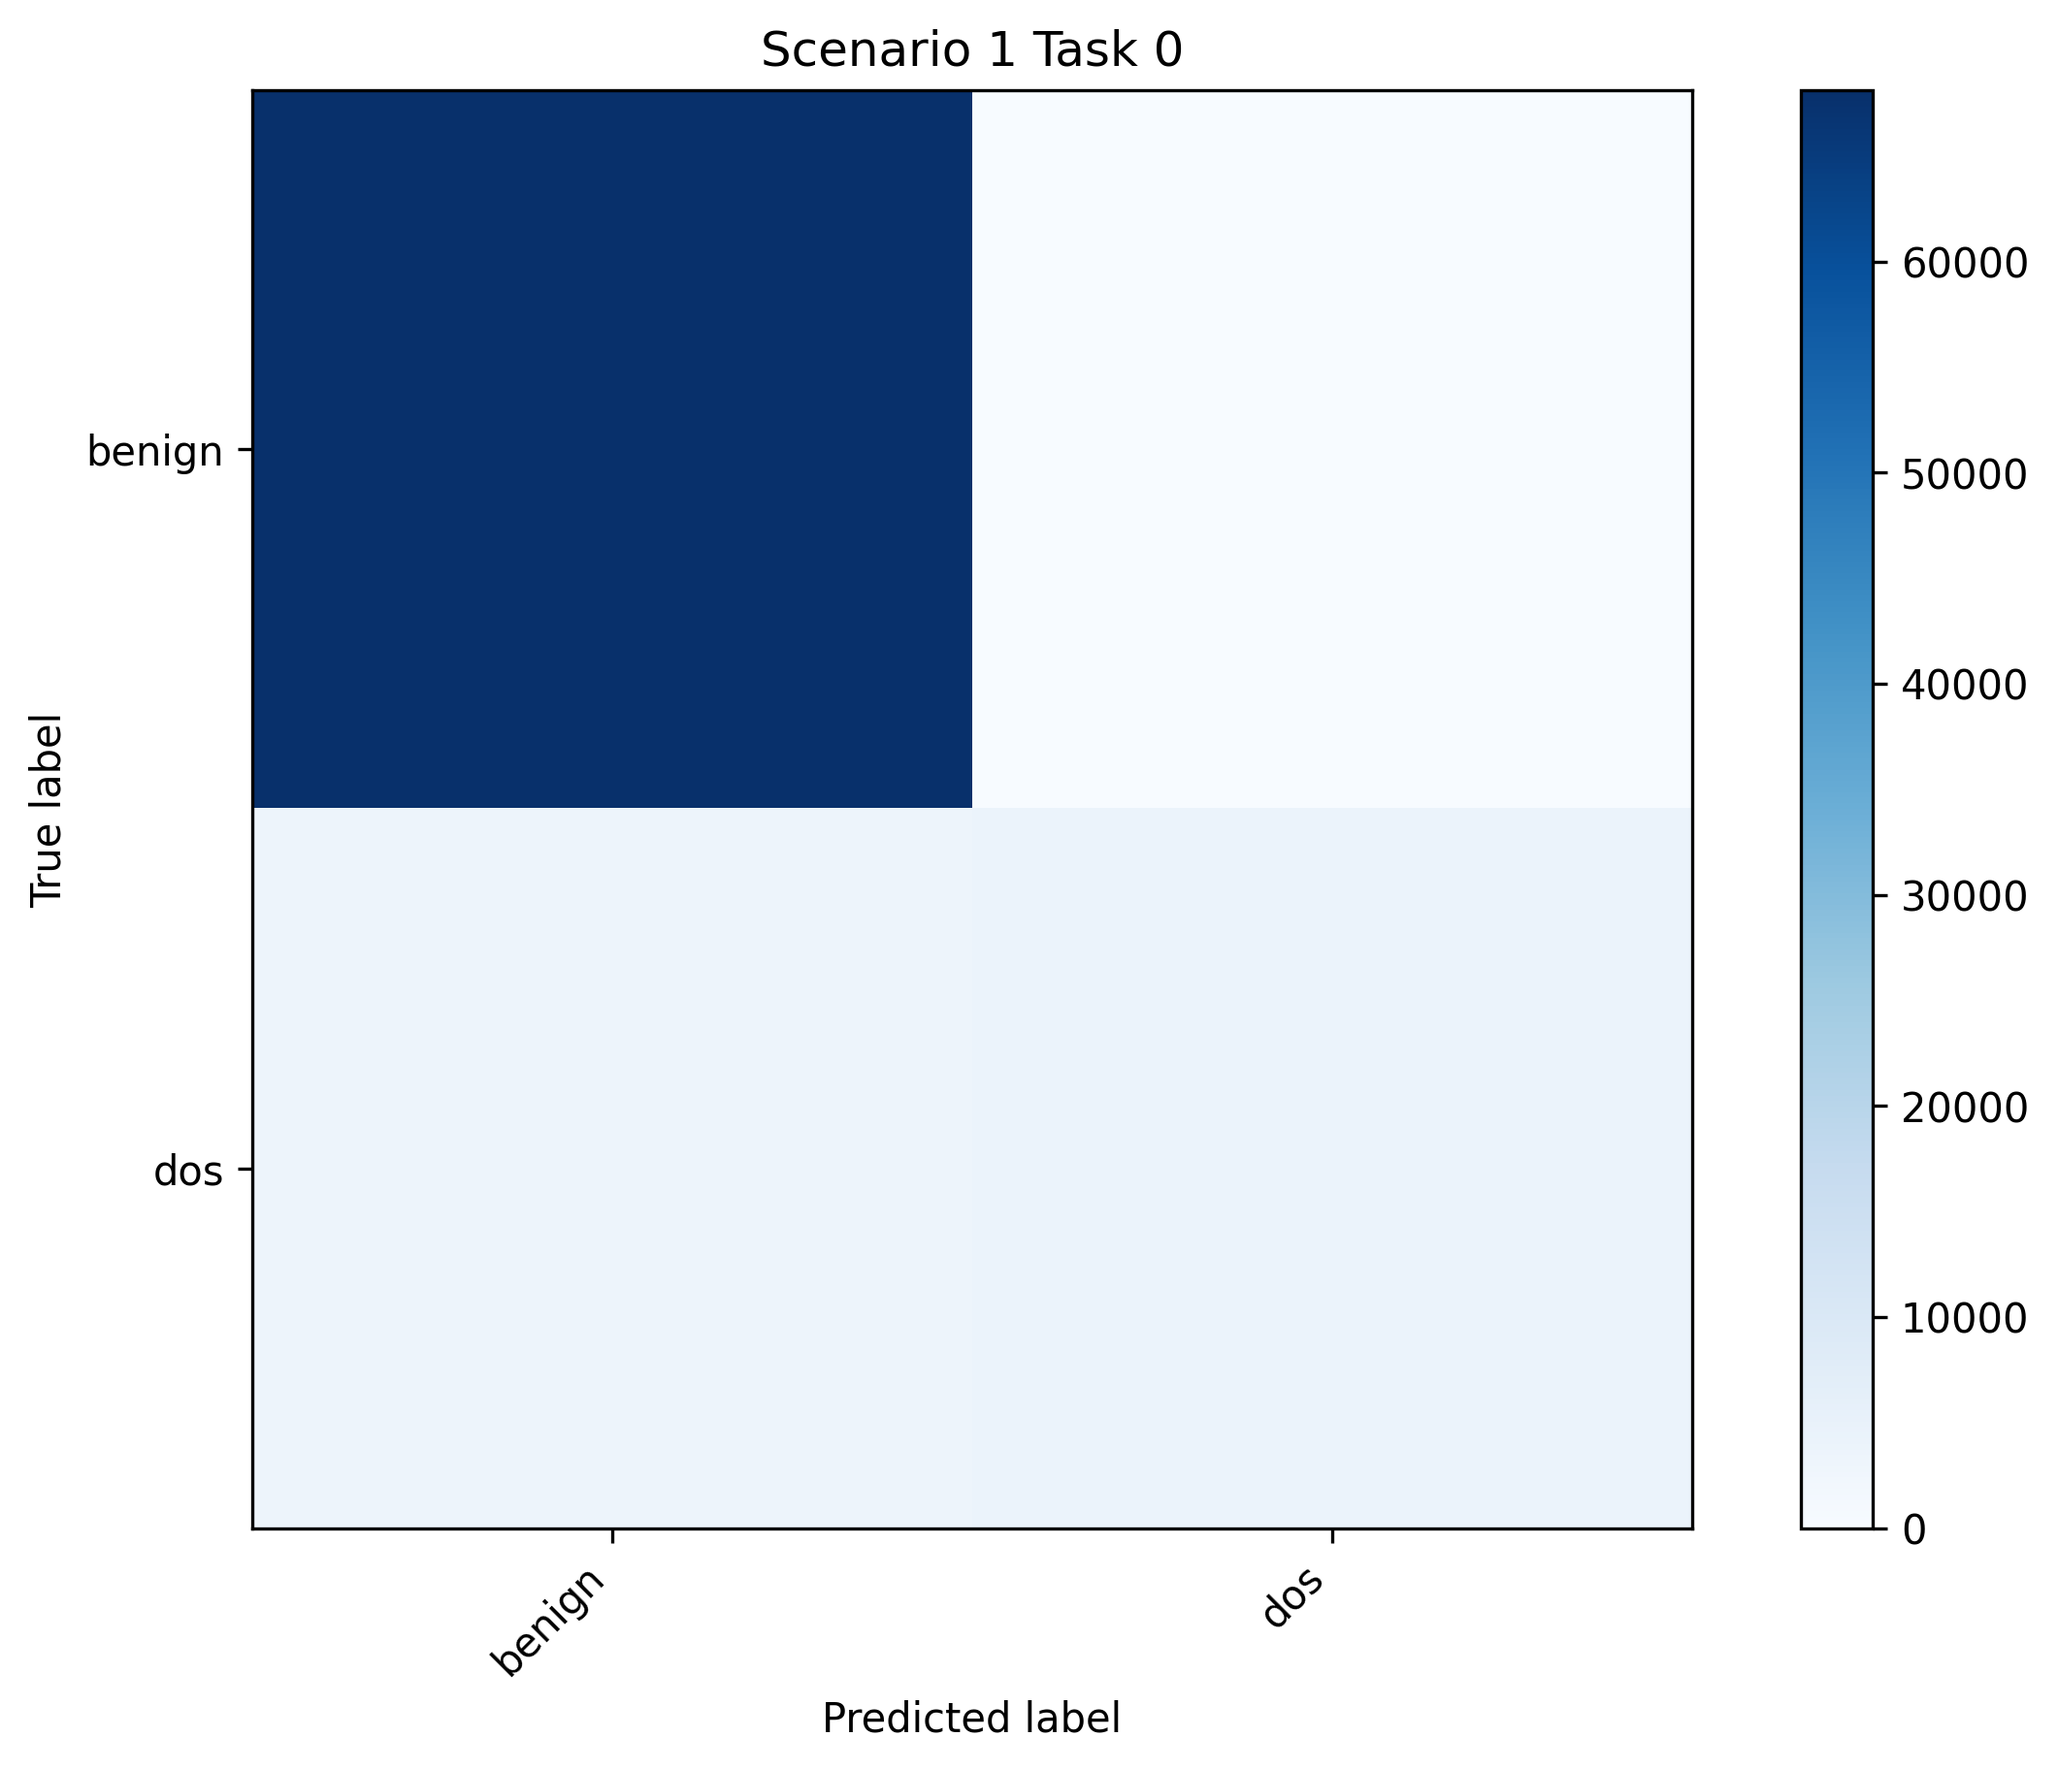
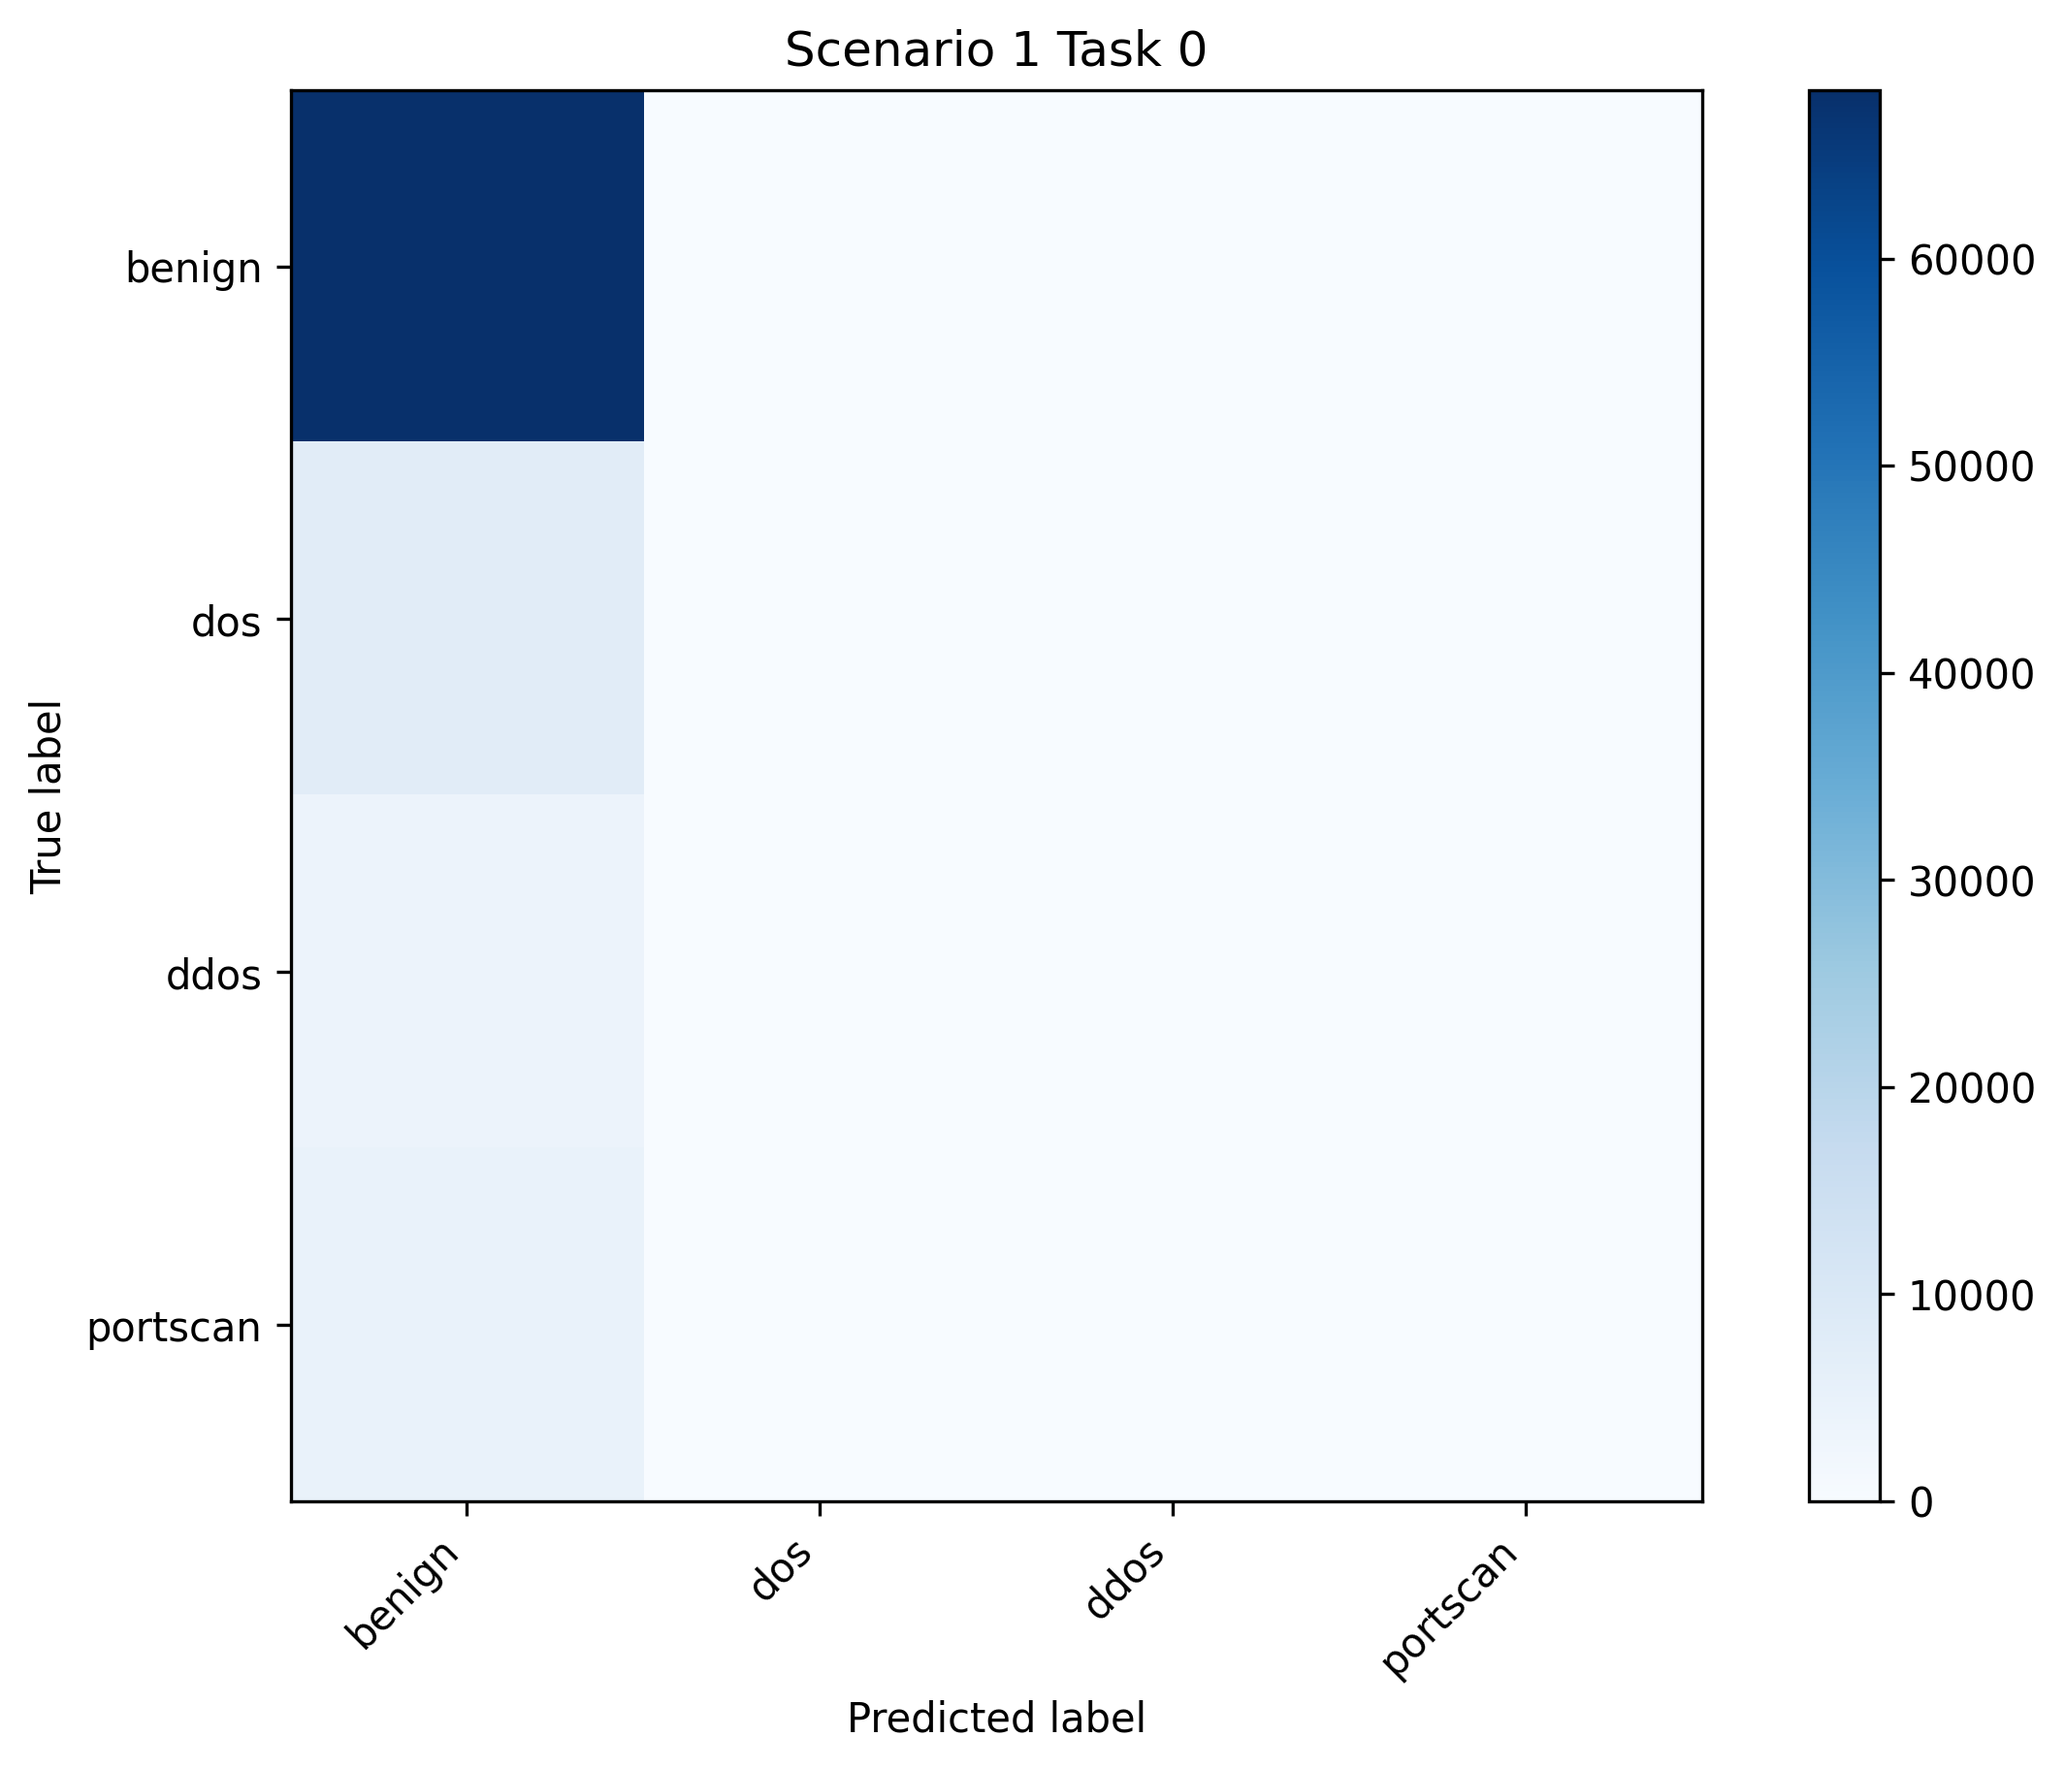
modifying metrics methods

diff --git a/src/metrics.py b/src/metrics.py
@@ -19,28 +19,35 @@ def average_accuracy(task_accuracies):
   """
   return np.mean(task_accuracies)
 
+import numpy as np
+
 def compute_forgetting(results):
     """
-    results: 2D list or numpy array
-             shape (num_tasks, num_tasks)
-             results[t][i] = metric on task i after training task t
+    results: 1D list or numpy array
+             Length = num_tasks
+             results[k] = accuracy on task k after training on all previous tasks
     """
-
+    
+    # Ensure results is a numpy array for easy slicing
     results = np.array(results)
-    num_tasks = results.shape[0]
-
+    num_tasks = len(results)
+    
+    # List to store the forgetting for each task
     forgetting_per_task = []
 
-    for t in range(1, num_tasks):
-        f_t = 0
-        for i in range(t):
-            best_past = np.max(results[:t, i])
-            current = results[t, i]
-            f_t += (best_past - current)
+    # Iterate over all tasks (starting from task 1)
+    for k in range(1, num_tasks):
+        f_k = 0  # Initialize forgetting for task k
+        for j in range(k):  # Compare task k with all previous tasks (0 to k-1)
+            best_past = np.max(results[:k])  # Maximum accuracy from all previous tasks
+            current = results[k]  # Current performance on task k
+            f_k += (best_past - current)  # Forgetting is the difference
 
-        f_t /= t
-        forgetting_per_task.append(f_t)
-
+        # Compute the average forgetting for task k
+        f_k /= k
+        forgetting_per_task.append(f_k)
+    
+    # Return the average forgetting across all tasks
     return np.mean(forgetting_per_task)
 
 def save_confusion_matrix(cm, class_names, out_path, title=None):
